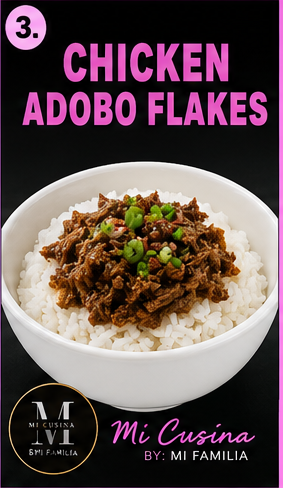
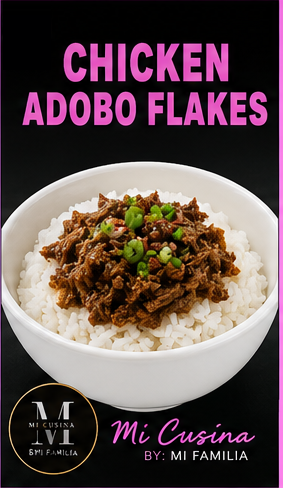
Remove menu image number badges

Changed region(s): [[0.0, 0.0, 0.1696, 0.123]]

diff --git a/resources/views/home/blog.blade.php b/resources/views/home/blog.blade.php
@@ -956,23 +956,6 @@
         z-index: 1;
     }
 
-    /* The supplied numbered collection cards have a small sequence badge in
-       the upper-left corner. Hide that badge without changing the food art. */
-    .mic-product-image-wrap::after {
-        background:#080808;
-        border-radius:50%;
-        content:"";
-        height:8.5%;
-        left:3%;
-        position:absolute;
-        top:3%;
-        width:15%;
-        z-index:2;
-    }
-
-
-
-
     @media (max-width:640px) {
         .mic-product-card {
             background: transparent;
